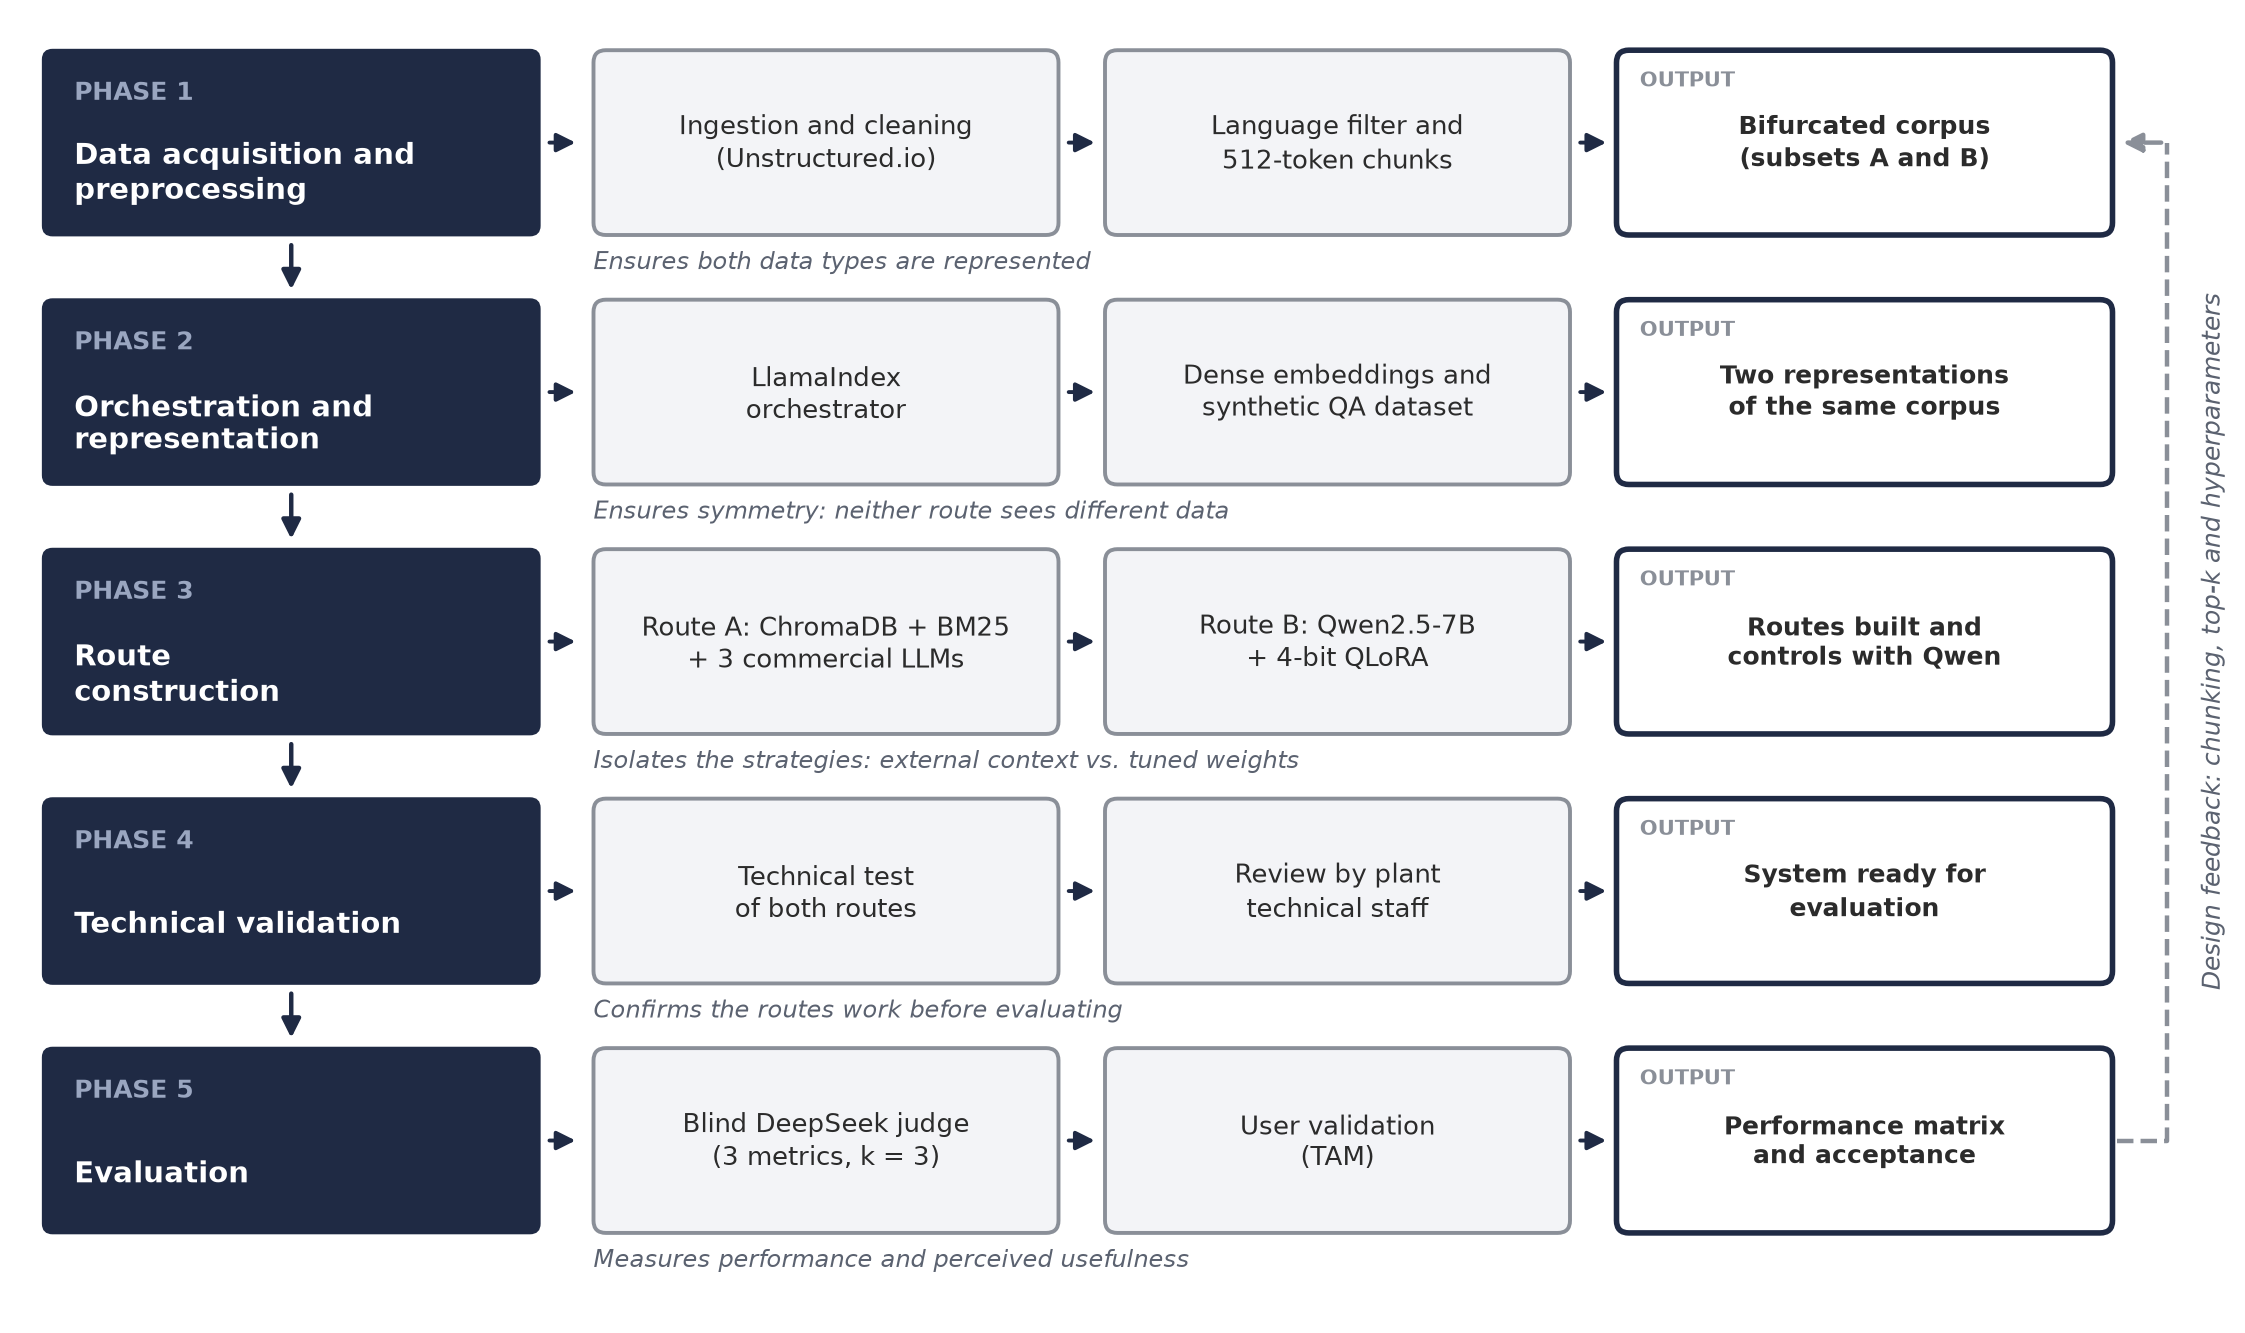
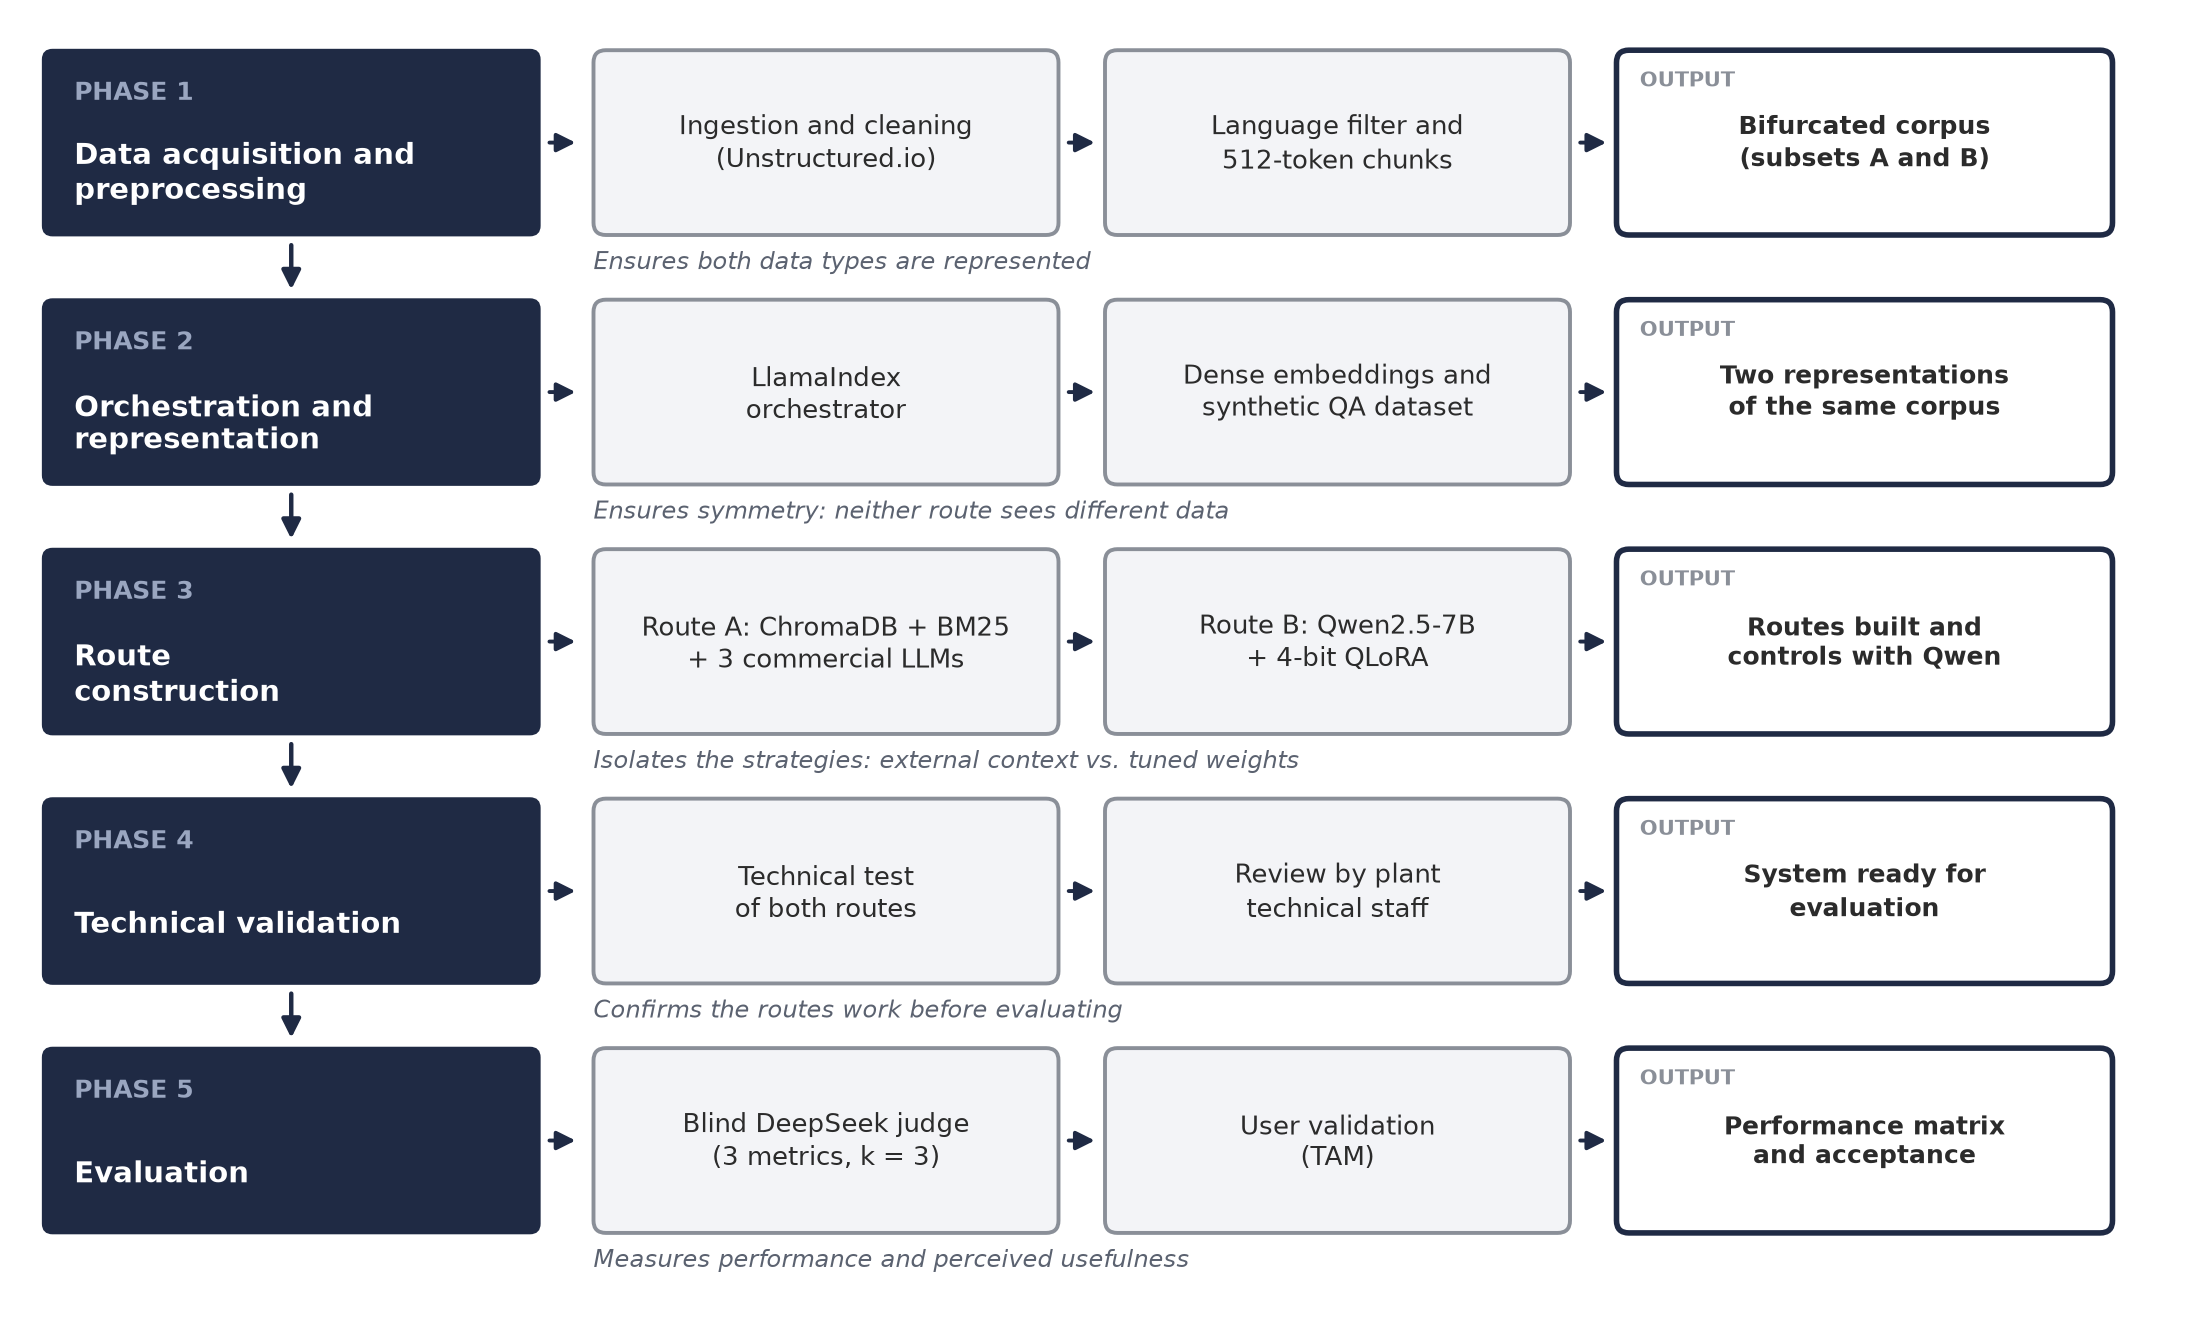
Figura 1 sin lazo de retroalimentacion (parametros fijados de antemano)

diff --git a/src/fase5_evaluacion/graficar_diagramas.py b/src/fase5_evaluacion/graficar_diagramas.py
@@ -37,7 +37,6 @@ TEXTOS = {
              "Matriz de rendimiento\ny aceptación", "Mide el desempeño y la utilidad percibida"),
         ],
         "salida": "SALIDA",
-        "retro": "Retroalimentación del diseño: segmentación, top-k e hiperparámetros",
         "capas": ["Capa 1", "Capa 2", "Capa 3", "Capa 5"],
         "capa_nombres": ["Repositorios\ndocumentales", "Preprocesamiento", "Orquestación", "Evaluación externa"],
         "capa_detalle": ["manuales y registros", "Unstructured.io · 512 tokens", "LlamaIndex", "Juez DeepSeek"],
@@ -63,7 +62,6 @@ TEXTOS = {
              "Performance matrix\nand acceptance", "Measures performance and perceived usefulness"),
         ],
         "salida": "OUTPUT",
-        "retro": "Design feedback: chunking, top-k and hyperparameters",
         "capas": ["Layer 1", "Layer 2", "Layer 3", "Layer 5"],
         "capa_nombres": ["Document\nrepositories", "Preprocessing", "Orchestration", "External evaluation"],
         "capa_detalle": ["manuals and records", "Unstructured.io · 512 tokens", "LlamaIndex", "DeepSeek judge"],
@@ -112,11 +110,6 @@ def fig1(idioma: str):
         ax.text(x1, y - 0.18, proposito, fontsize=8.8, style="italic", color="#5b6270", va="center")
         if i < 4:
             flecha(ax, (xf + wf / 2, y - 0.03), (xf + wf / 2, y - paso + alto + 0.03), lw=1.6)
-    ytop, ybot = 8.4 - 0.2 - alto / 2, 8.4 - 0.2 - alto - 4 * paso + alto / 2
-    xr = xo + wo + 0.35
-    ax.plot([xo + wo + 0.03, xr, xr], [ybot, ybot, ytop], color=GRIS, lw=1.6, ls="--")
-    flecha(ax, (xr, ytop), (xo + wo + 0.03, ytop), color=GRIS, lw=1.6, ls="--")
-    ax.text(xr + 0.3, (ytop + ybot) / 2, t["retro"], rotation=90, fontsize=9, style="italic", color="#5b6270", ha="center", va="center")
     fig.savefig(DEST / f"fig1_diseno_{idioma}.png", dpi=200, bbox_inches="tight", facecolor="white")
     plt.close(fig)
 
